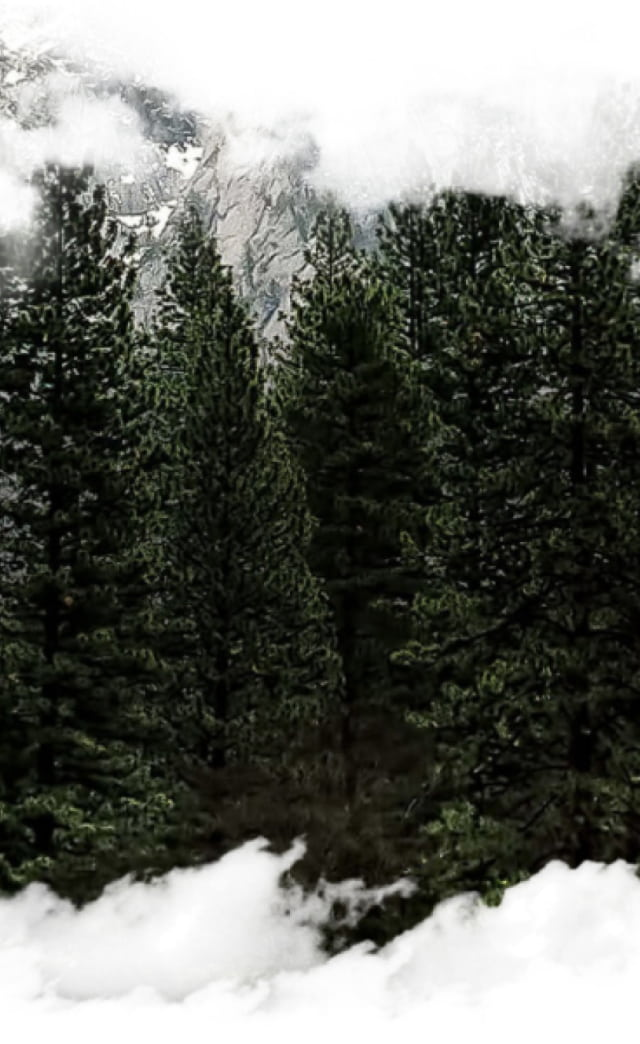
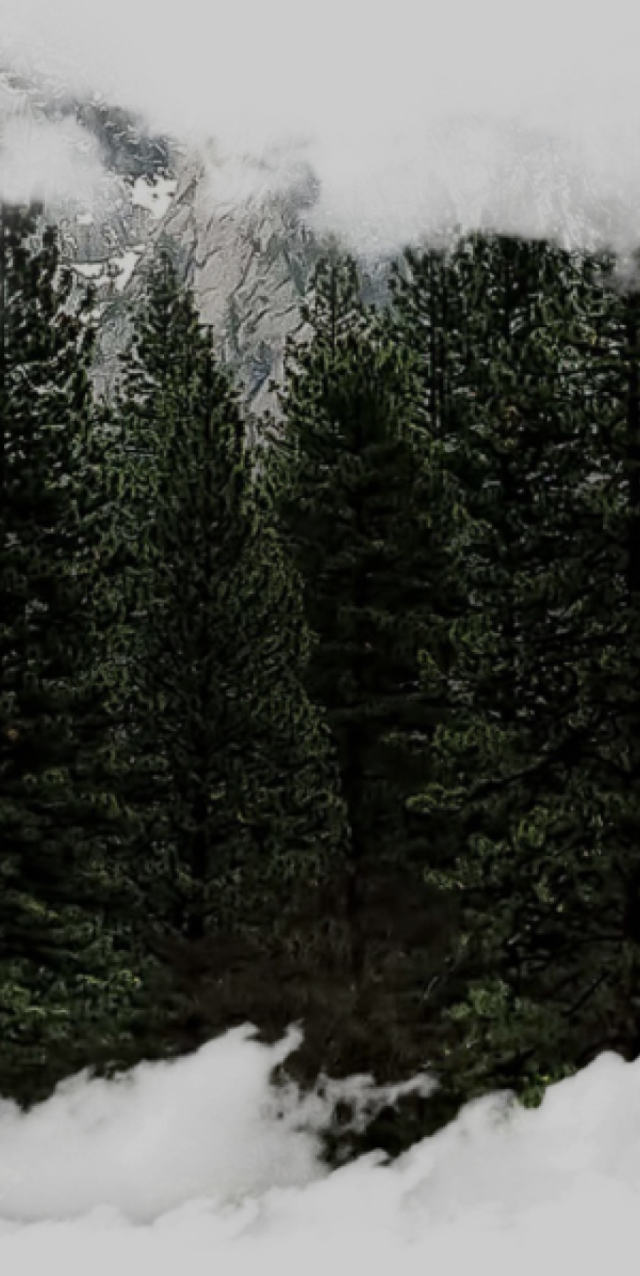
29 блоков pp

diff --git a/source/sass/blocks/form-block.scss b/source/sass/blocks/form-block.scss
@@ -9,9 +9,7 @@
     url("../../img/form/form-mobile@2x.jpg") type("image/jpeg") 2x,
     url("../../img/form/form-mobile@2x.webp") type("image/webp") 2x
   );
-  background-color: rgba(0, 0, 0, 0.2);
   background-size: cover;
-  background-position: top 0 left -36px;
   background-repeat: no-repeat;
   color: $white-color;
 
@@ -20,7 +18,7 @@
     font-size: 22px;
     line-height: 100%;
     margin: 0;
-    margin-bottom: 16px;
+    margin-bottom: 17px;
   }
 
   p {
